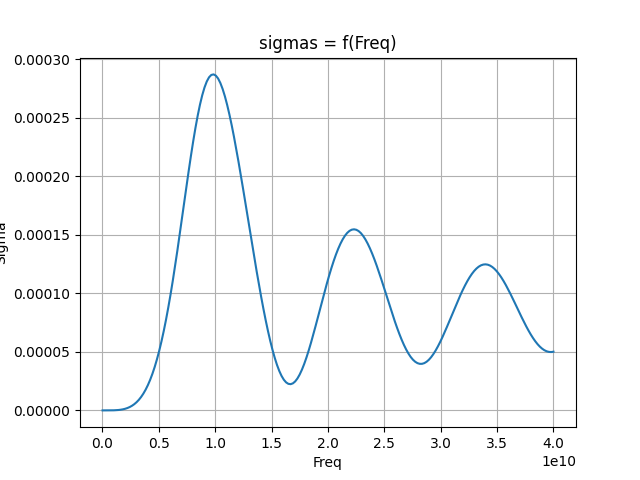
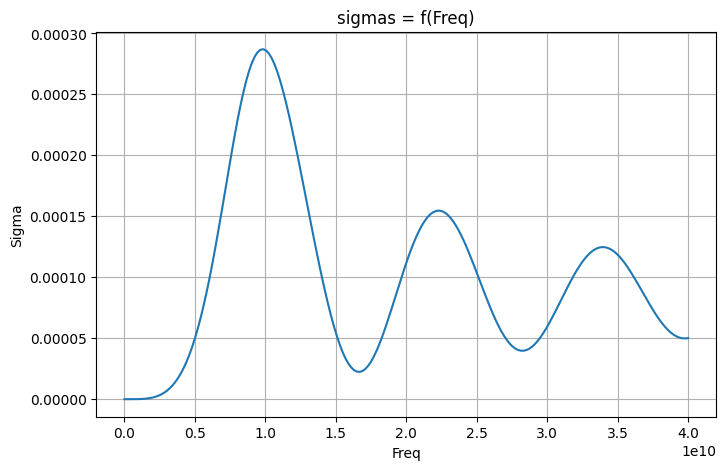
Correct the bugs

diff --git a/pz1/pz1.py b/pz1/pz1.py
@@ -80,10 +80,11 @@ if __name__=='__main__':
     calculator = EPRCalculator(D=D, N=50)
     sigmas = calculator.calculate(frequencies)
     EPRPlotter.save_to_xml(frequencies, sigmas, calculator.r * 2, filename=output_xml)
+    plt.figure(figsize=(8,5))
     plt.plot(frequencies, sigmas)
     plt.xlabel('Freq')
     plt.ylabel('Sigma')
     plt.title('sigmas = f(Freq)')
     plt.grid(True)
-    plt.savefig('task1var1.png')
+    plt.savefig('task1var1.png', bbox_inches='tight')
     plt.show()

diff --git a/pz2/diff_between_graphics.py b/pz2/diff_between_graphics.py
@@ -75,6 +75,7 @@ def creating_plot(cst, python):
 
     plt.tight_layout(rect=[0, 0, 1, 0.96])
     plt.show()
+    plt.savefig("task2var1.png")
 
 
 def main():
